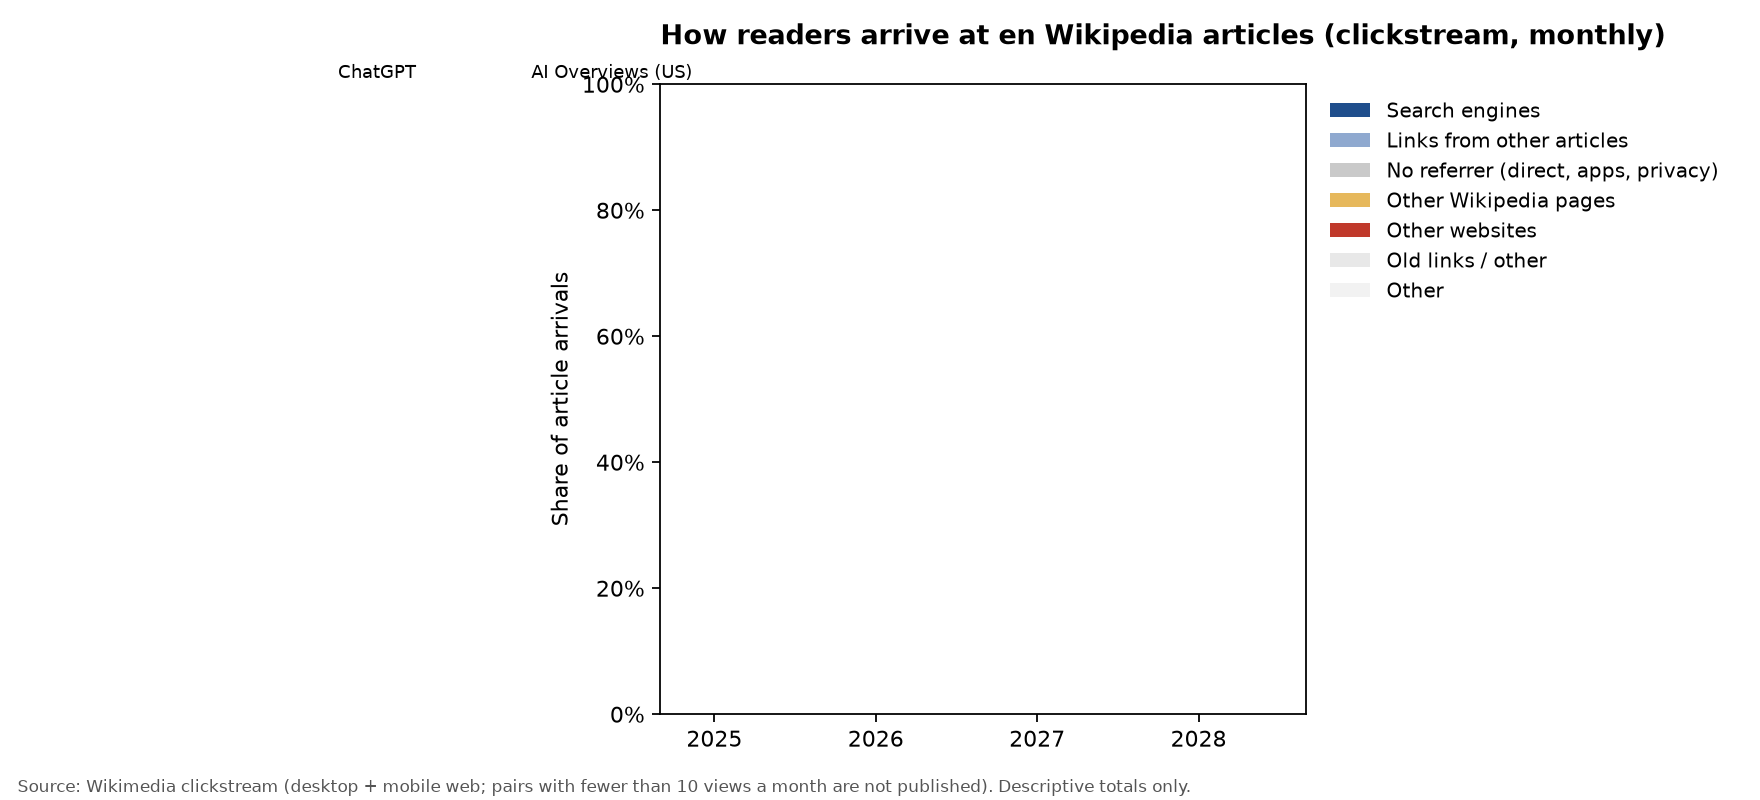
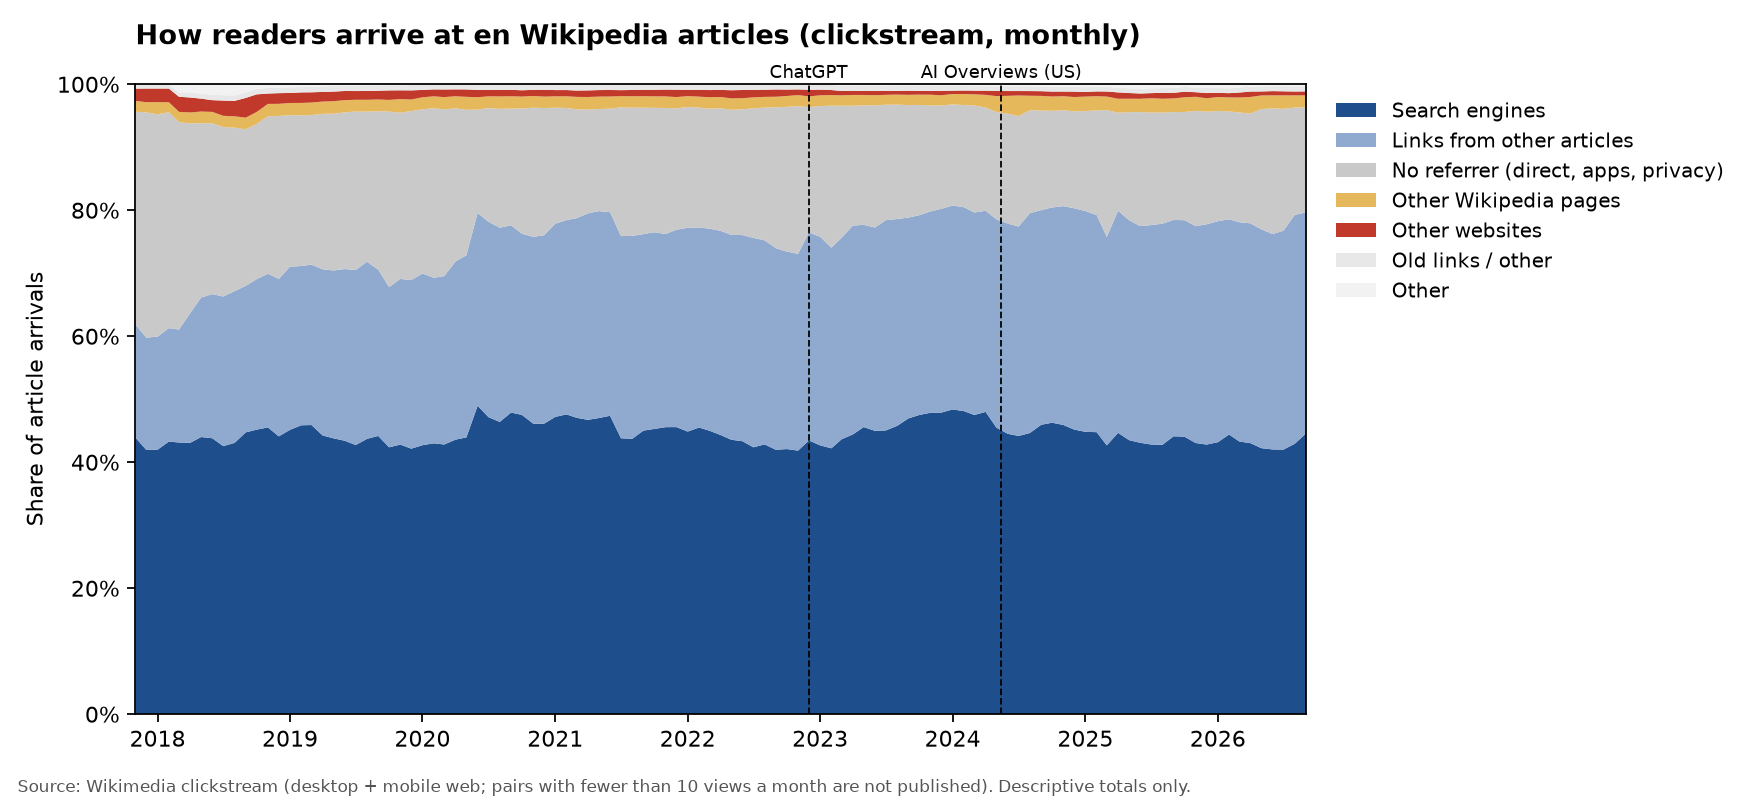
P05: clickstream ingest, lang-month totals, referral mix and coverage figures

diff --git a/CLAUDE.md b/CLAUDE.md
@@ -52,7 +52,7 @@ Project plan: [05-wikipedia-ai-overviews.md](05-wikipedia-ai-overviews.md). Data
 
 - [x] ✅ DONE! **P04: Parser tests first.** _Done 2026-10-29: 20 parser tests (fixtures + real); real files: clickstream quote-wrapped titles found and decoded; pageview 2024-03 totals = AQS exactly for all 11 editions, 0 malformed rows, null page_id 1–7% of views; 11 min/file single-threaded._ Create small fixture files for clickstream TSV (all four `other-*` types, `link`, `external`, unicode titles, titles with tabs or quotes), `pageview_complete` (the compact hourly-encoded daily field, multiple access types, `user` and `automated` agents, missing `page_id`) and Wikidata JSON entities. Write failing pytest tests for streaming parsers, and implement until they pass. Check them against one real file of each. **Findings:** test count, and edge cases found in the real files.
 
-- [ ] **P05: Clickstream ingest.** Stream every available month for every language in the set into Parquet partitioned by `lang=` and `month=` (`prev, curr, type, n`). Also write `clickstream_lang_month.parquet` with totals by referrer type, and `clickstream_article_month.parquet` with per-article arrivals by type plus outgoing internal clicks (for P23). Make it resumable, and log rows/sec and peak memory. **Findings:** rows and sizes by language, months covered, run time, and the English referral mix by year as a sanity check (descriptive totals only).
+- [x] ✅ DONE! **P05: Clickstream ingest.** _Done 2026-10-29: 1,917 files (40 langs, 97 GB gz) → 7.4 bn pair rows, 84 GB Parquet + 25 GB article aggregates; 0 rejects, no gaps; en search share 43–46% every year; breaks to check in P11: en 2020-06 (bot class) and 2025-03 spike._ Stream every available month for every language in the set into Parquet partitioned by `lang=` and `month=` (`prev, curr, type, n`). Also write `clickstream_lang_month.parquet` with totals by referrer type, and `clickstream_article_month.parquet` with per-article arrivals by type plus outgoing internal clicks (for P23). Make it resumable, and log rows/sec and peak memory. **Findings:** rows and sizes by language, months covered, run time, and the English referral mix by year as a sanity check (descriptive totals only).
 
 - [ ] **P06: Sampling frame and article sample.** Using **pre-period popularity only** (2023 `user` pageviews, so the sample isn't selected on the outcome), build the frame of main-namespace, non-redirect articles per language. Join Wikidata QIDs through sitelinks and `instance of` (P31). Draw a stratified sample of about 200k articles in total: strata = language × popularity decile × coarse Wikidata type, with oversampling of (a) items that exist in all core languages (the within-concept panel) and (b) small strata. Store sampling weights. Save `sample.parquet` with `lang, page_id, title, qid, stratum, weight`. **Findings:** sample sizes by stratum, the number of cross-language matched items, and how many articles had no QID.
 

diff --git a/DATA.md b/DATA.md
@@ -140,3 +140,16 @@ At the ~8 MB/s seen on one connection, the pageview dumps take on the order of a
   - mobile-app: 0.6–5.0% of views.
   - Speed: 11.0 min per file at 367k lines/s with Python's single-threaded bz2, 42 MB RAM. 129 user months + 77 automated months ≈ 38 h serial. A parallel bz2 decoder (e.g. `lbzip2`) or several files at once would cut this (decided in P07).
 - **Wikidata API:** entities parse as expected. Missing items come back as `missing` and are dropped. A single malformed ID fails the whole `wbgetentities` batch (`no-such-entity`); the parser raises rather than returning nothing.
+
+## 12. Clickstream ingest (P05)
+
+- **Run:** `make ingest-clickstream` (`src/wao/ingest/clickstream_ingest.py`); 2026-10-29, about 3 h wall time for 1,917 files (97 GB gzip), almost all of it download at ~10 MB/s. Conversion took 50 min in total at ~705k rows/s overall; peak RSS 7.0 GB. Resumable: one done marker per file in `clickstream_done/`, partial downloads resume from `.part`.
+- **Outputs (under `WAO_DATA_DIR/parquet/`):**
+  - `clickstream/lang=/month=/pairs.parquet` (`prev, curr, referrer, n`): 7.42 bn rows, 84 GB (en alone 41 GB, 3.46 bn rows).
+  - `clickstream_article/lang=/month=/part.parquet`: per-article arrivals by referrer class, `arr_total`, `out_links` (clicks to other articles, for P23); 25 GB.
+  - `clickstream_lang_month.parquet`: 40 languages × months = 1,917 rows of totals by referrer plus the number of articles with any published arrival.
+- **Checks:** 0 rejected lines in every file; no published count below 10 (the threshold holds); pairs total = article total = lang-month total (unit test). No gaps inside any language's range: en, de, es, ja, ru 2017-11 → 2026-09; fr, it, pl, pt, zh 2018-01 →; fa 2018-03 →; the other 29 languages 2024-08 →.
+- **English referral mix (share of arrivals, descriptive):** search 43–46% every year 2018–2026 (2023 45.4%, 2024 46.2%, 2025 43.6%); links between articles rose from 23% (2018) to 36% (2026); no-referrer fell from 29% to 18%.
+- **Breaks to handle in P11** (visible in `p05_clickstream_coverage.png` / `p05_referral_mix_en.png`):
+  - **2020-06, en:** no-referrer share falls from 23% to 16%, search rises from 44% to 49%, and articles with any arrival drop from 4.8 M to 4.1 M. Consistent with the `automated` agent class Wikimedia introduced in spring 2020 removing bot traffic that had mostly arrived with no referrer. Check against events.csv.
+  - **2025-03, en (and zh in 2025–26):** articles with any arrival jump from 5.6 M to 6.6 M for one month, with no-referrer up to 20%. Looks like undetected automated traffic, around the 2025 bot-detection change. zh shows several similar bright months.
